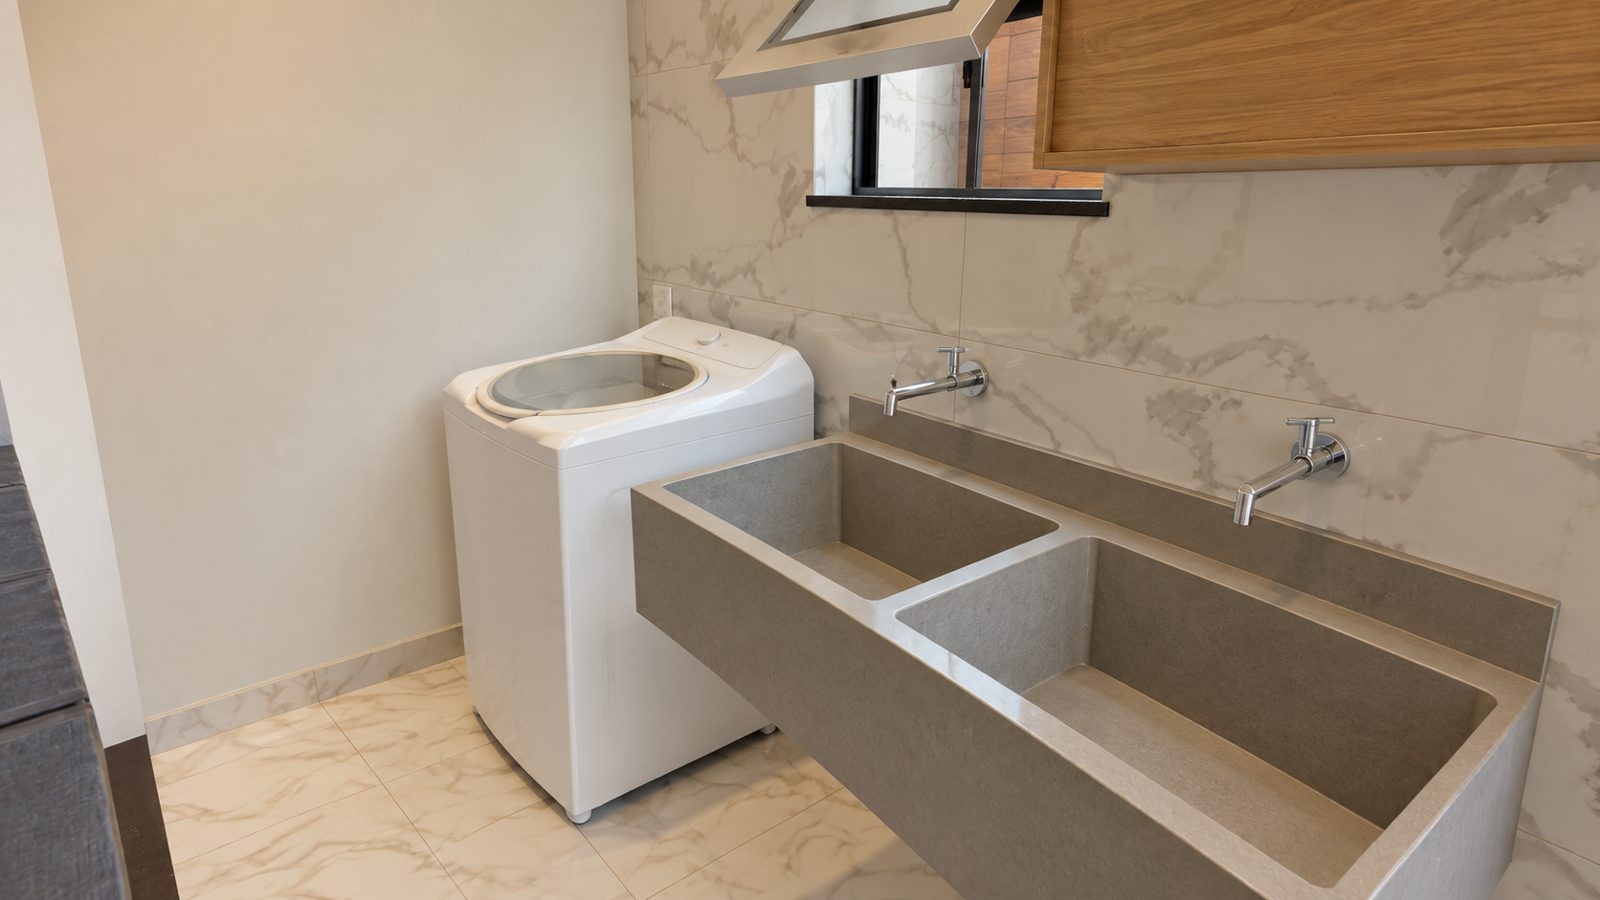
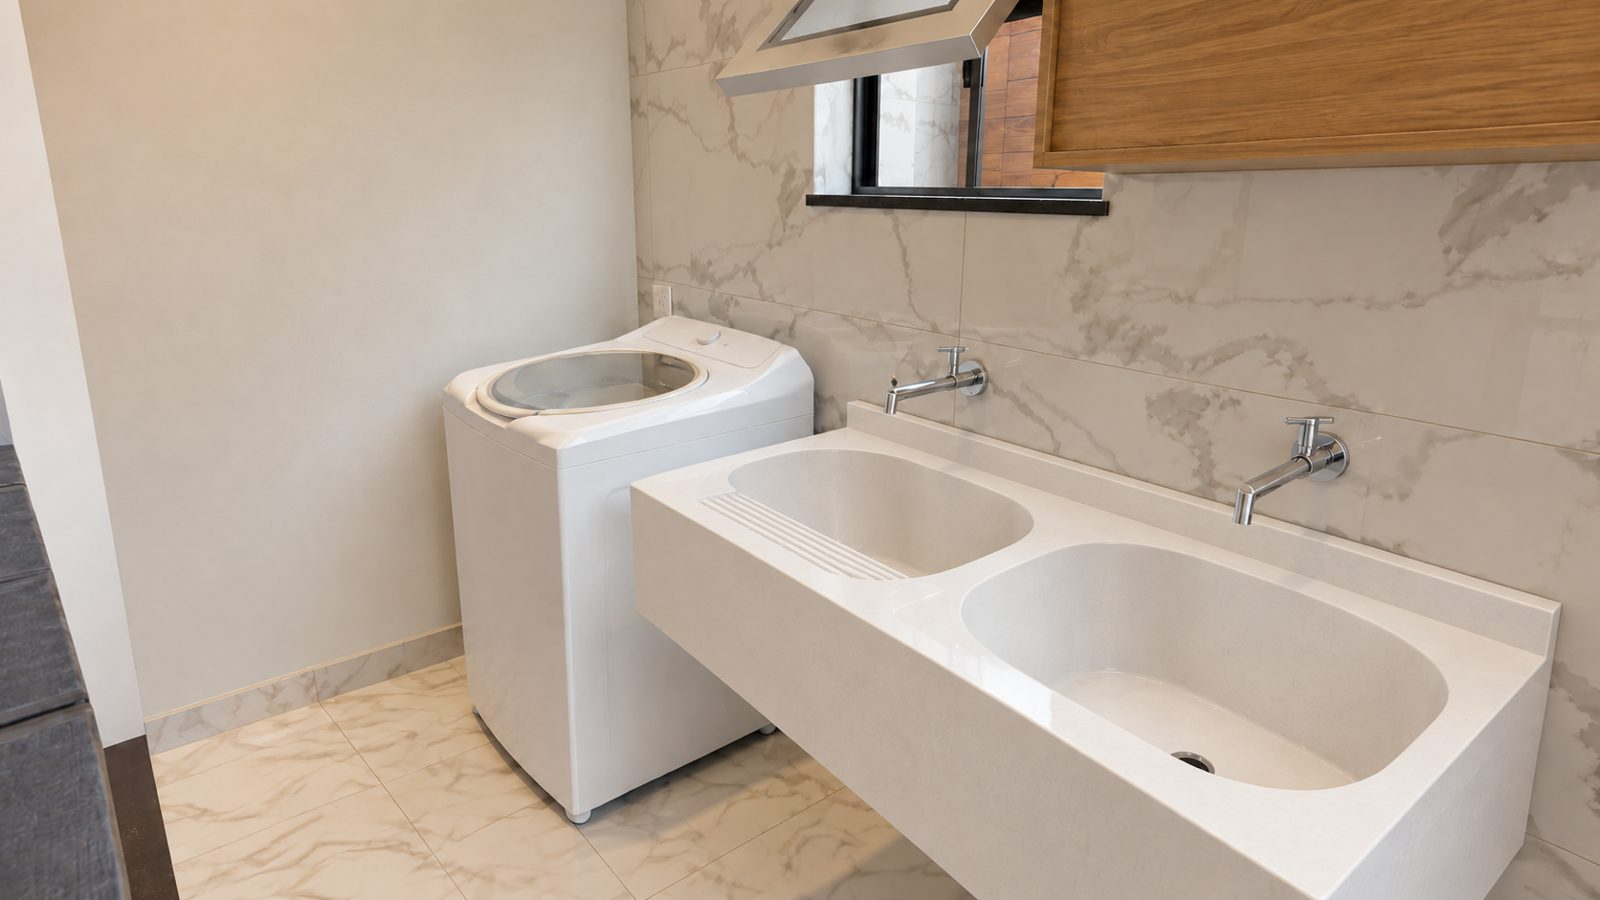
Atualiza render da lavanderia com tanque branco e esfregador

Changed region(s): [[0.375, 0.4044, 1.0, 1.0], [0.5312, 0.1867, 0.6875, 0.2489]]

diff --git a/index.html b/index.html
@@ -288,12 +288,12 @@ footer .miolo { display: flex; justify-content: space-between; gap: 20px; flex-w
     </article>
 
     <article class="ambiente">
-      <div class="fotos"><figure class="quadro"><img loading="lazy" src="img/lavanderia.jpg" alt="Lavanderia com tanque duplo cinza, duas torneiras e lavadora branca" data-legenda="Lavanderia"></figure><figure class="quadro"><img loading="lazy" src="img/circulacao.jpg" alt="Circulação com spots no forro e portas de madeira frisada" data-legenda="Circulação"></figure></div>
+      <div class="fotos"><figure class="quadro"><img loading="lazy" src="img/lavanderia.jpg?v=13625542046e" alt="Lavanderia com tanque duplo branco com esfregador, duas torneiras e lavadora branca" data-legenda="Lavanderia"></figure><figure class="quadro"><img loading="lazy" src="img/circulacao.jpg" alt="Circulação com spots no forro e portas de madeira frisada" data-legenda="Circulação"></figure></div>
       <div>
         <h3>Lavanderia e circulação</h3><span class="area">lavanderia 3,5 m² · circulação 7,1 m²</span>
         <p>Tanque duplo de mármore sintético suspenso na parede, com uma torneira para cada cuba, e lavadora de abrir por cima. Na circulação, spots no forro e portas de madeira frisada.</p>
         <ul>
-          <li>Tanque duplo 1,20 × 0,60 em cinza</li>
+          <li>Tanque duplo branco com cubas arredondadas e esfregador</li>
           <li>Armário aéreo sobre o tanque</li>
           <li>Parede molhada em porcelanato claro; demais paredes pintadas, com rodapé</li>
         </ul>
